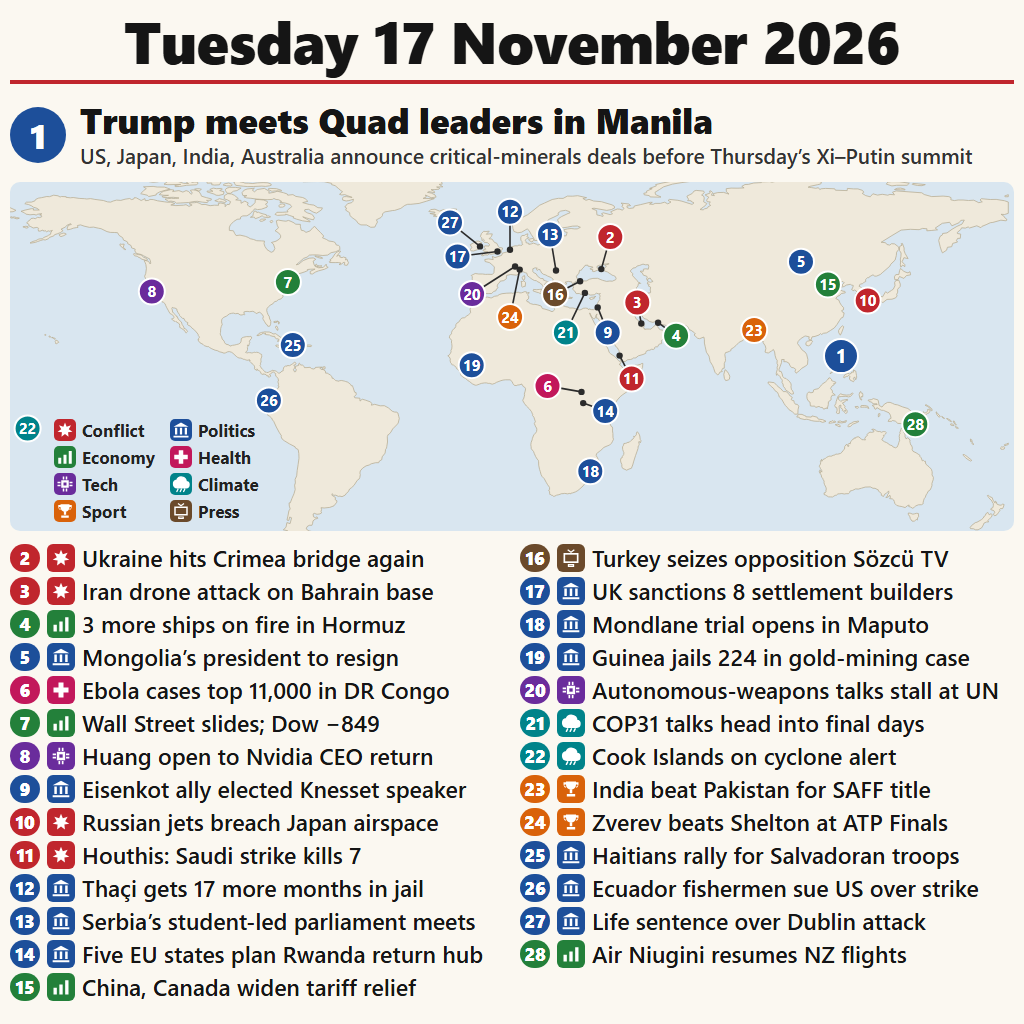
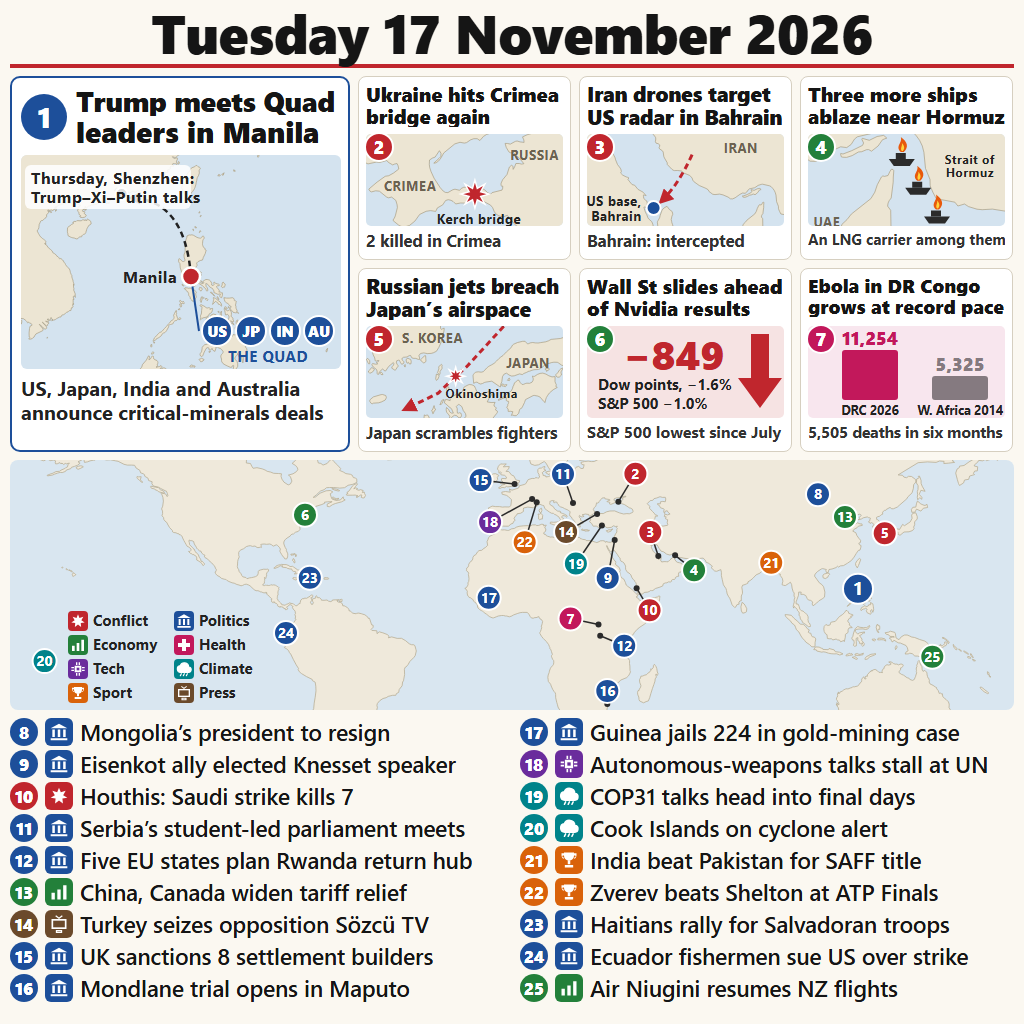
Illustrated panels for the top stories, smaller map, 25 stories

diff --git a/README.md b/README.md
@@ -4,7 +4,7 @@
 [![rank](https://make.fun/badge/news-image-20261117/hieudao151093/world-news-2026-11-17/rank.svg)](https://make.fun/bounty/news-image-20261117/leaderboard?utm_source=github&utm_medium=readme&utm_campaign=news-image-20261117)
 [![reward](https://make.fun/badge/news-image-20261117/hieudao151093/world-news-2026-11-17/reward.svg)](https://make.fun/bounty/news-image-20261117?utm_source=github&utm_medium=readme&utm_campaign=news-image-20261117)
 
-One 1024 x 1024 picture of the world news of Tuesday 17 November 2026: a lead story with one line of context, a world map with 28 numbered markers, and 28 one-line headlines across every continent, each tagged with an icon for its kind of story (conflict, politics, economy, health, tech, climate, sport, press). `main.ts` copies the pre-rendered `entry.png` to `/output/entry.png`, so every run writes the same bytes; `tools/build.mjs` renders it from the story list.
+One 1024 x 1024 picture of the world news of Tuesday 17 November 2026: the lead story and six more as small illustrated panels (locator maps of the Crimea bridge strike, the Bahrain base, the burning ships near Hormuz and the Russian flight past Japan; the Dow's 849-point drop; Ebola's case count against West Africa's 2014 outbreak), then a world map with 25 numbered markers and 18 one-line briefs across every continent, each tagged with an icon for its kind of story. `main.ts` copies the pre-rendered `entry.png` to `/output/entry.png`, so every run writes the same bytes; `tools/build.mjs` renders it from the story list.
 
 ## Run it
 
@@ -12,10 +12,10 @@ One 1024 x 1024 picture of the world news of Tuesday 17 November 2026: a lead st
 mkdir -p out && MAKEFUN_OUTPUT_DIR=out node main.ts
 ```
 
-Rebuild the picture (needs a Chromium browser and Natural Earth's `ne_110m_land.geojson`):
+Rebuild the picture (needs a Chromium browser and Natural Earth's 1:110m and 1:50m land polygons):
 
 ```sh
-node tools/build.mjs path/to/ne_110m_land.geojson
+node tools/build.mjs path/to/ne_110m_land.geojson path/to/ne_50m_land.geojson
 ```
 
 ---
